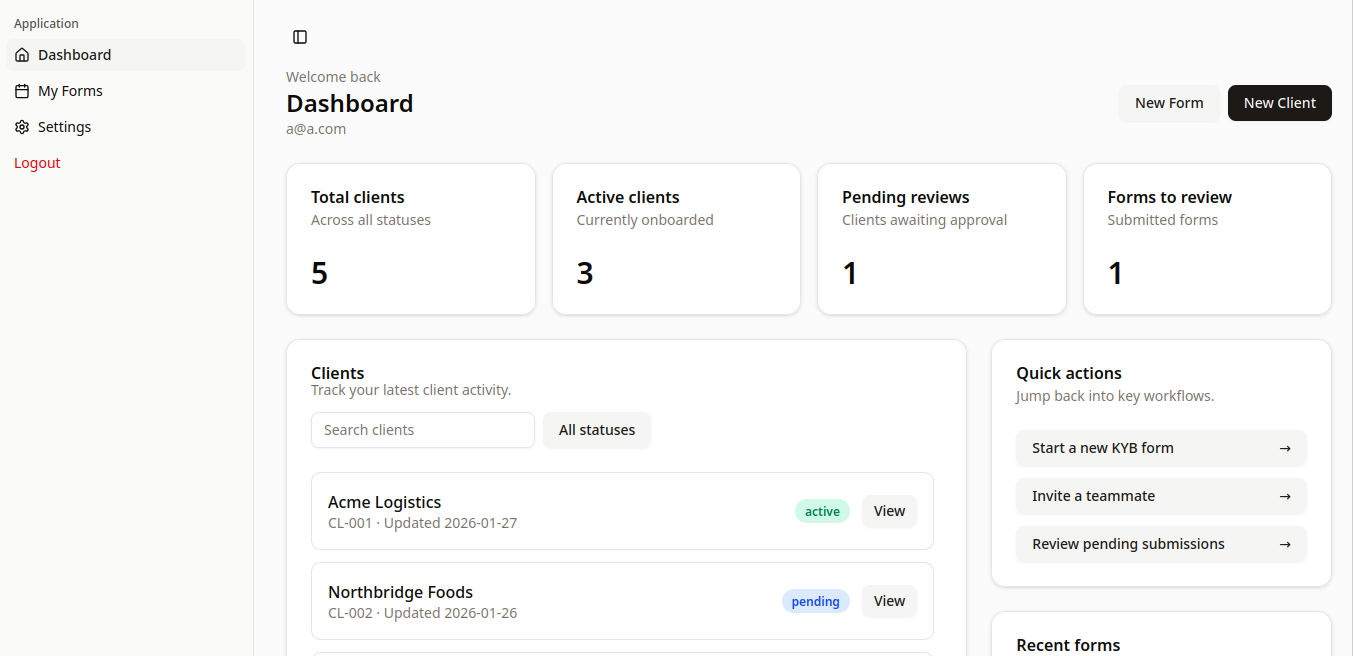
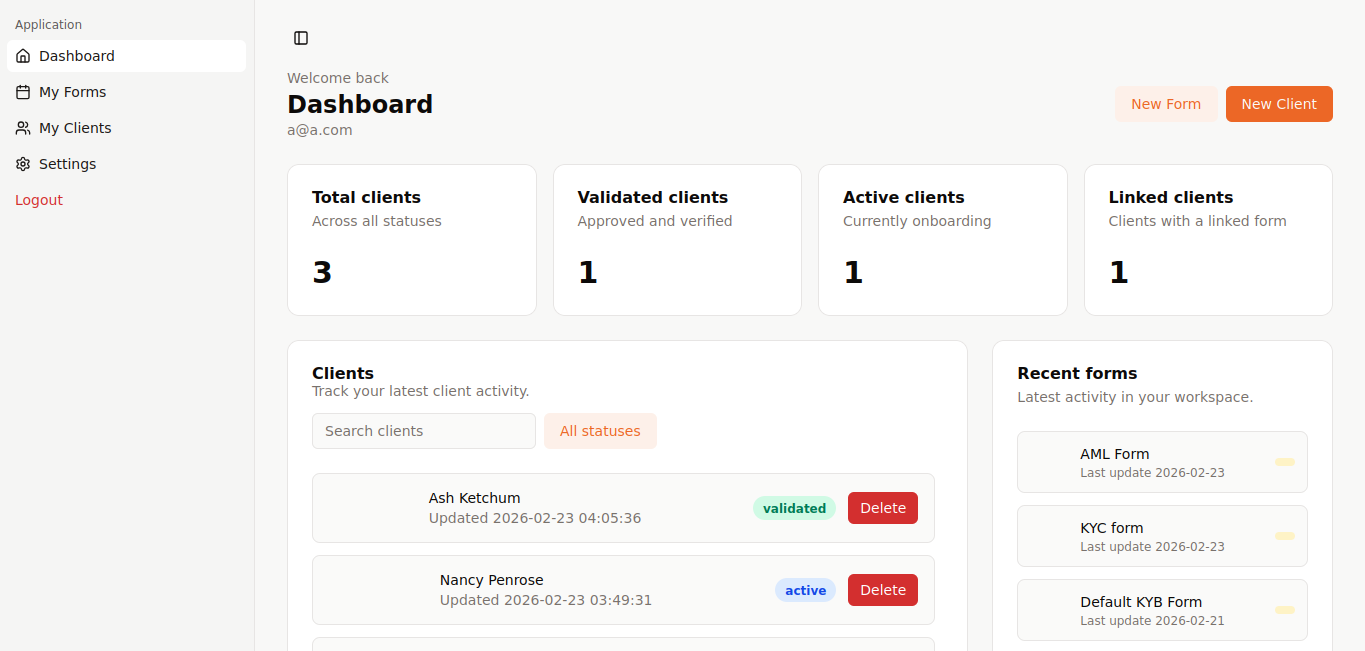
feat: Enhance dashboard statistics and update UI components for better clarity

diff --git a/app/frontend/pages/Dashboard/Dashboard.svelte b/app/frontend/pages/Dashboard/Dashboard.svelte
@@ -22,7 +22,7 @@
     updated_at: string;
   };
 
-  let { user, clients: initialClients, recent_forms: initialForms, meta } = $props();
+  let { user, clients: initialClients, recent_forms: initialForms, meta, stats } = $props();
 
   let clients = $derived<Client[]>(initialClients ?? []);
   let forms = $derived<Form[]>(initialForms ?? []);
@@ -91,11 +91,6 @@
       onError: () => (loadingClients = false),
     });
   }
-  const totalClients = $derived.by(() => clients.length);
-  const activeClients = $derived.by(() => clients.filter((client) => client.status === "active").length);
-  const pendingClients = $derived.by(() => clients.filter((client) => client.status === "validated").length);
-  const pendingForms = $derived.by(() => forms.filter((form) => form.status === "submitted").length);
-
   const recentForms = $derived.by(() => forms.slice(0, 5));
 
   const formStatusBadge = (status: Form["status"]) => {
@@ -169,34 +164,34 @@
       <Card.Description>Across all statuses</Card.Description>
     </Card.Header>
     <Card.Content>
-      <p class="text-3xl font-semibold">{totalClients}</p>
+      <p class="text-3xl font-semibold">{stats.total_clients}</p>
+    </Card.Content>
+  </Card.Root>
+  <Card.Root>
+    <Card.Header>
+      <Card.Title>Validated clients</Card.Title>
+      <Card.Description>Approved and verified</Card.Description>
+    </Card.Header>
+    <Card.Content>
+      <p class="text-3xl font-semibold">{stats.validated_clients}</p>
     </Card.Content>
   </Card.Root>
   <Card.Root>
     <Card.Header>
       <Card.Title>Active clients</Card.Title>
-      <Card.Description>Currently onboarded</Card.Description>
+      <Card.Description>Currently onboarding</Card.Description>
     </Card.Header>
     <Card.Content>
-      <p class="text-3xl font-semibold">{activeClients}</p>
+      <p class="text-3xl font-semibold">{stats.active_clients}</p>
     </Card.Content>
   </Card.Root>
   <Card.Root>
     <Card.Header>
-      <Card.Title>Pending reviews</Card.Title>
-      <Card.Description>Clients awaiting approval</Card.Description>
+      <Card.Title>Linked clients</Card.Title>
+      <Card.Description>Clients with a linked form</Card.Description>
     </Card.Header>
     <Card.Content>
-      <p class="text-3xl font-semibold">{pendingClients}</p>
-    </Card.Content>
-  </Card.Root>
-  <Card.Root>
-    <Card.Header>
-      <Card.Title>Forms to review</Card.Title>
-      <Card.Description>Submitted forms</Card.Description>
-    </Card.Header>
-    <Card.Content>
-      <p class="text-3xl font-semibold">{pendingForms}</p>
+      <p class="text-3xl font-semibold">{stats.linked_clients}</p>
     </Card.Content>
   </Card.Root>
 </section>

diff --git a/app/queries/dashboard_query.rb b/app/queries/dashboard_query.rb
@@ -3,16 +3,14 @@ class DashboardQuery
   def initialize(user)
     @user = user
   end
-=begin
   def stats
     {
       total_clients: client_scope.count,
-      active_clients: client_scope.where(status: 'active').count,
-      pending_clients: client_scope.where(status: 'pending').count,
-      pending_forms: form_scope.where(status: 'submitted').count
+      validated_clients: client_scope.where(form_status: "validated").count,
+      active_clients: client_scope.where(form_status: "active").count,
+      linked_clients: client_scope.where(form_status: "linked").count
     }
   end
-=end
 
   def recent_forms(limit: 5)
     form_scope.order(updated_at: :desc).limit(limit)

diff --git a/app/controllers/dashboard_controller.rb b/app/controllers/dashboard_controller.rb
@@ -9,6 +9,7 @@ class DashboardController < ApplicationController
       user: current_user,
       clients: clients,
       recent_forms: FormSerializer.collection(q.recent_forms),
+      stats: q.stats,
       meta: {
         page: @pagy.page,
         per_page: (@pagy.vars[:items] || clients_page.size),
